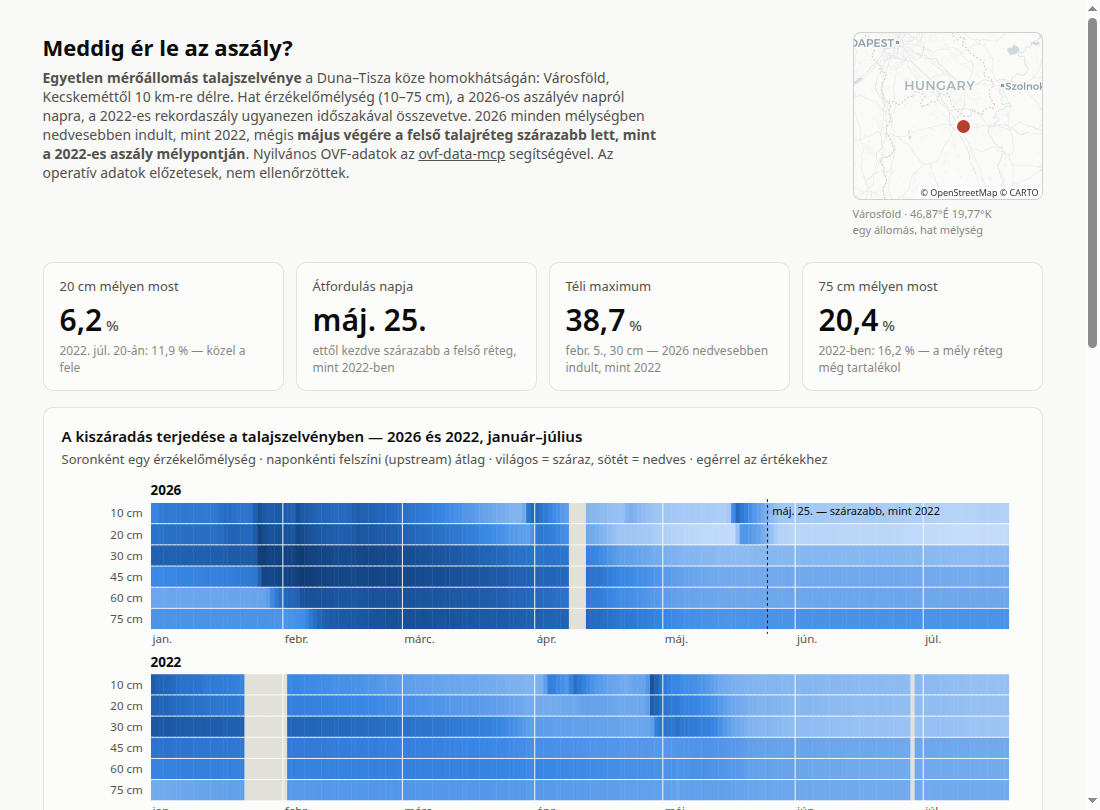
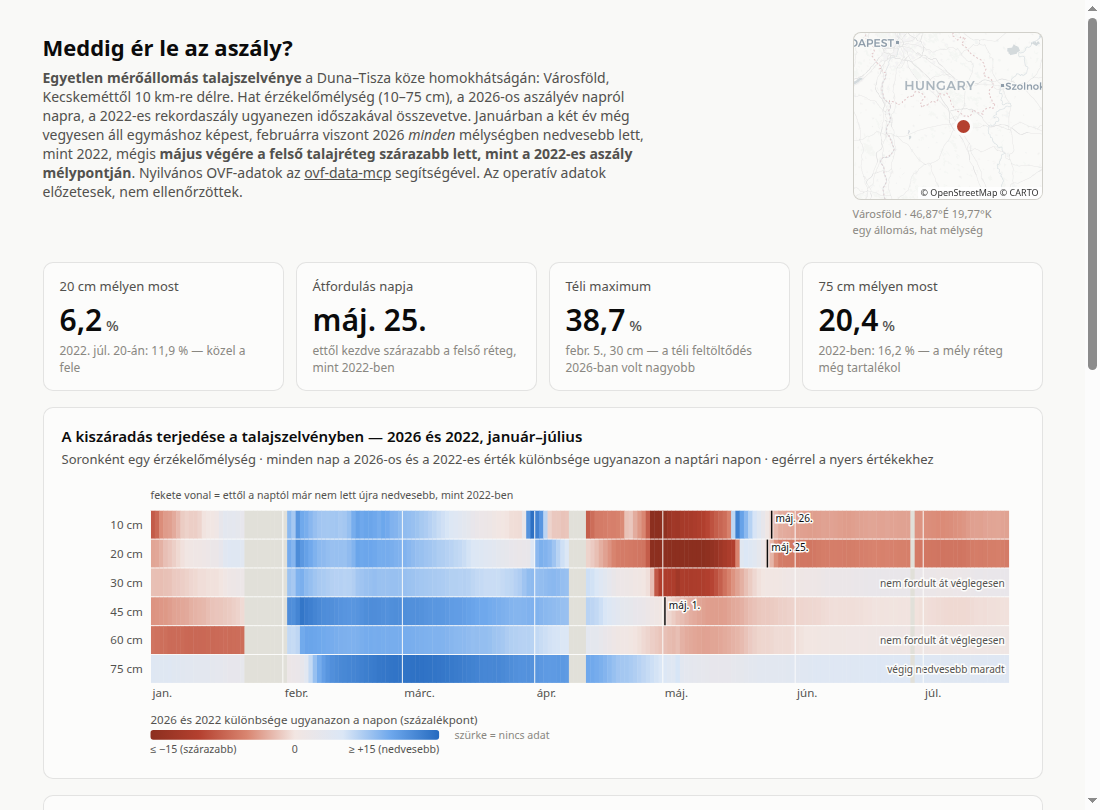
docs: show the drying front as a year-over-year difference
The heatmap was titled "a kiszáradás terjedése a talajszelvényben" but plotted
absolute moisture on one 5-40% scale shared by all six depths. Deep layers barely
move within that range — 75 cm spans 3.7 pp across 2022 — so they rendered as
flat colour and the downward-spreading front, the thing the title promises, was
exactly what the encoding erased.

Each cell is now the 2026 minus 2022 difference for the same calendar day at the
same depth, on a diverging scale. The front is readable: 10 cm turns red in early
April, 20 cm on 13 April, 30 cm on 27 April, while 75 cm stays wetter throughout.
This also removes a comparison the data cannot support, since absolute
percentages are not comparable between depths without wilting point and field
capacity, which are null upstream.

Fixes two factual errors in the process. The header claimed 2026 started wetter
at every depth; on 1 January it was drier at five of six, and only February is
uniformly wetter. The winter-maximum tile repeated the same claim. The "máj. 25."
crossover checked out and is unchanged: it is the last day 20 cm returns to
wetter than 2022.

diff --git a/docs/examples/varosfold-soil-drought.html b/docs/examples/varosfold-soil-drought.html
@@ -79,7 +79,8 @@
         <p><strong>Egyetlen mérőállomás talajszelvénye</strong> a Duna–Tisza köze
            homokhátságán: Városföld, Kecskeméttől 10 km-re délre. Hat érzékelőmélység
            (10–75 cm), a 2026-os aszályév napról napra, a 2022-es rekordaszály ugyanezen
-           időszakával összevetve. 2026 minden mélységben nedvesebben indult, mint 2022,
+           időszakával összevetve. Januárban a két év még vegyesen áll egymáshoz képest,
+           februárra viszont 2026 <em>minden</em> mélységben nedvesebb lett, mint 2022,
            mégis <strong>május végére a felső talajréteg szárazabb lett, mint a 2022-es
            aszály mélypontján</strong>. Nyilvános OVF-adatok az
            <a href="https://github.com/kalcifield/ovf-data-mcp">ovf-data-mcp</a>
@@ -107,7 +108,7 @@
     <div class="tile">
       <div class="label">Téli maximum</div>
       <div class="value">38,7<small> %</small></div>
-      <div class="sub">febr. 5., 30 cm — 2026 nedvesebben indult, mint 2022</div>
+      <div class="sub">febr. 5., 30 cm — a téli feltöltődés 2026-ban volt nagyobb</div>
     </div>
     <div class="tile">
       <div class="label">75 cm mélyen most</div>
@@ -118,10 +119,10 @@
 
   <div class="card">
     <h2>A kiszáradás terjedése a talajszelvényben — 2026 és 2022, január–július</h2>
-    <p class="sub">Soronként egy érzékelőmélység · naponkénti felszíni (upstream) átlag ·
-       világos = száraz, sötét = nedves · egérrel az értékekhez</p>
+    <p class="sub">Soronként egy érzékelőmélység · minden nap a 2026-os és a 2022-es érték
+       különbsége ugyanazon a naptári napon · egérrel a nyers értékekhez</p>
     <svg id="heat" tabindex="0" role="img"
-         aria-label="Két hőtérkép egymás alatt: a 2026-os és a 2022-es év január–júliusi talajnedvessége hat mélységben a városföldi állomáson. 2026 telén minden réteg sötét, azaz nedves, majd május végétől a felső rétegek világosabbra, azaz szárazabbra váltanak, mint 2022 ugyanezen napjain. A teljes adatsor az alábbi táblázatban található."></svg>
+         aria-label="Hőtérkép: soronként egy érzékelőmélység 10 és 75 cm között, oszloponként egy nap január és július között. A szín a 2026-os és a 2022-es talajnedvesség különbsége ugyanazon a napon: vörös azt jelenti, hogy 2026 szárazabb volt, kék azt, hogy nedvesebb. A felső rétegek áprilistól fordulnak vörösbe, 20 cm-en május 25-től már nem tér vissza a nedvesebb állapot, a 75 cm-es réteg viszont végig nedvesebb marad 2022-nél. A teljes adatsor az alábbi táblázatban található."></svg>
     <div class="tooltip" id="heattip"></div>
   </div>
 
@@ -211,13 +212,13 @@ for (const yr of ["2026", "2022"]) {
 const fmt = v => v == null ? "—" : v.toLocaleString("hu-HU", { minimumFractionDigits: 1, maximumFractionDigits: 1 });
 const mdLabel = md => { const [m, d] = md.split("-").map(Number); return MONTH_NAMES[m - 1] + " " + d + "."; };
 
-// szekvenciális kék skála (világos = száraz, sötét = nedves), 5–40 %
-const RAMP = ["#cde2fb", "#9ec5f4", "#6da7ec", "#3987e5", "#256abf", "#184f95", "#0d366b"];
-const DOM = [5, 40];
-function rampColor(v) {
-  const t = Math.max(0, Math.min(1, (v - DOM[0]) / (DOM[1] - DOM[0])));
-  const x = t * (RAMP.length - 1), i = Math.min(RAMP.length - 2, Math.floor(x)), f = x - i;
-  const c1 = RAMP[i], c2 = RAMP[i + 1];
+// divergens skála: vörös = 2026 szárazabb, kék = nedvesebb, mint 2022 ugyanaznap
+const DIV_RAMP = ["#8c2f1f", "#b4402f", "#d98570", "#f2e6e2", "#dbe7f6", "#6da7ec", "#256abf"];
+const DDOM = 15;  // ±15 pp; a szélsőértékek (−22 pp) levágva, hogy a közép ne mosódjon el
+function diffColor(v) {
+  const t = Math.max(0, Math.min(1, (v + DDOM) / (2 * DDOM)));
+  const x = t * (DIV_RAMP.length - 1), i = Math.min(DIV_RAMP.length - 2, Math.floor(x)), f = x - i;
+  const c1 = DIV_RAMP[i], c2 = DIV_RAMP[i + 1];
   const hx = (c, k) => parseInt(c.slice(1 + 2 * k, 3 + 2 * k), 16);
   const ch = k => Math.round(hx(c1, k) + (hx(c2, k) - hx(c1, k)) * f);
   return "rgb(" + ch(0) + "," + ch(1) + "," + ch(2) + ")";
@@ -238,66 +239,96 @@ function txt(parent, x, y, s, attrs) {
 const monthStarts = [];
 { let acc = 0; for (let m = 0; m < 7; m++) { monthStarts.push(acc); acc += MONTH_DAYS[m]; } }
 
-// ---- hőtérkép ----
+// ---- hőtérkép: 2026 mínusz 2022, mélységenként ----
+// Abszolút nedvességet nem lehet mélységek között összevetni (más talaj, más
+// kalibráció, és nincs hervadáspont/vízkapacitás adat a normalizáláshoz), ezért minden
+// sor csak önmagával, a 2022-es aszály ugyanazon napjával van összemérve.
 const CROSS_MD = "05-25";
+const DIFF = DEPTHS.map((dep, r) => {
+  const row = new Array(N).fill(null);
+  for (let i = 0; i < N; i++) {
+    const a = grid["2026"][r][i], b = grid["2022"][r][i];
+    if (a != null && b != null) row[i] = a - b;
+  }
+  return row;
+});
+// Az a nap, ami után már egyetlen nap sem nedvesebb 2022-nél (— ha nincs ilyen).
+const FINAL = DIFF.map(row => {
+  for (let i = 0; i < N; i++) {
+    if (row[i] == null) continue;
+    let ok = true;
+    for (let j = i; j < N; j++) if (row[j] != null && row[j] >= 0) { ok = false; break; }
+    if (ok) return i;
+  }
+  return null;
+});
 (function heatmap() {
-  const W = 1000, ML = 92, MR = 16, rowH = 22, blockGap = 46, top = 26, legendH = 56;
+  const W = 1000, ML = 92, MR = 16, rowH = 30, top = 34, legendH = 58;
   const iw = W - ML - MR, cw = iw / N;
   const blockH = DEPTHS.length * rowH;
-  const H = top + 2 * blockH + blockGap + 30 + legendH;
+  const H = top + blockH + 30 + legendH;
   const svg = document.getElementById("heat");
   svg.setAttribute("viewBox", "0 0 " + W + " " + H);
 
-  const blocks = [["2026", top], ["2022", top + blockH + blockGap]];
-  for (const [yr, y0] of blocks) {
-    txt(svg, ML, y0 - 8, yr, { "font-weight": 650, "font-size": 14, fill: "var(--text-primary)" });
-    DEPTHS.forEach((dep, r) => {
-      txt(svg, ML - 8, y0 + r * rowH + rowH / 2 + 4, dep + " cm", { "text-anchor": "end" });
-      const row = grid[yr][r];
-      for (let i = 0; i < N; i++) {
-        el(svg, "rect", {
-          x: ML + i * cw, y: y0 + r * rowH, width: cw + 0.5, height: rowH - 1,
-          fill: row[i] == null ? "var(--grid)" : rampColor(row[i]),
-          "data-yr": yr, "data-r": r, "data-i": i
-        });
-      }
-    });
-    // hónap-tengely a blokk alatt
-    for (let m = 0; m < 7; m++) {
-      const x = ML + monthStarts[m] * cw;
-      el(svg, "line", { x1: x, y1: y0, x2: x, y2: y0 + blockH, stroke: "var(--surface-1)", "stroke-width": 1 });
-      txt(svg, x + 2, y0 + blockH + 14, MONTH_NAMES[m]);
+  DEPTHS.forEach((dep, r) => {
+    txt(svg, ML - 8, top + r * rowH + rowH / 2 + 4, dep + " cm", { "text-anchor": "end" });
+    for (let i = 0; i < N; i++) {
+      el(svg, "rect", {
+        x: ML + i * cw, y: top + r * rowH, width: cw + 0.5, height: rowH - 1,
+        fill: DIFF[r][i] == null ? "var(--grid)" : diffColor(DIFF[r][i]),
+        "data-r": r, "data-i": i
+      });
     }
+    // mélységenkénti végleges átfordulás
+    if (FINAL[r] != null) {
+      const fx = ML + (FINAL[r] + 0.5) * cw;
+      el(svg, "line", { x1: fx, y1: top + r * rowH, x2: fx, y2: top + (r + 1) * rowH - 1,
+                        stroke: "var(--text-primary)", "stroke-width": 1.5 });
+      txt(svg, fx + 4, top + r * rowH + 12, mdLabel(MDS[FINAL[r]]),
+          { "font-size": 10.5, fill: "var(--text-primary)", stroke: "#fcfcfb",
+            "stroke-width": 3, "paint-order": "stroke" });
+    } else {
+      // FINAL == null csak annyit jelent, hogy nincs végleges átfordulás; attól még
+      // lehetett a réteg időszakosan szárazabb, mint 2022-ben.
+      const alwaysWetter = DIFF[r].every(v => v == null || v > 0);
+      txt(svg, ML + iw - 4, top + r * rowH + rowH / 2 + 4,
+          alwaysWetter ? "végig nedvesebb maradt" : "nem fordult át véglegesen",
+          { "text-anchor": "end", "font-size": 10.5, fill: "var(--text-secondary)",
+            stroke: "#fcfcfb", "stroke-width": 3, "paint-order": "stroke" });
+    }
+  });
+  for (let m = 0; m < 7; m++) {
+    const x = ML + monthStarts[m] * cw;
+    el(svg, "line", { x1: x, y1: top, x2: x, y2: top + blockH, stroke: "var(--surface-1)", "stroke-width": 1 });
+    txt(svg, x + 2, top + blockH + 14, MONTH_NAMES[m]);
   }
-  // átfordulás-jelölő a 2026-os blokkon
-  const cx = ML + (IDX.get(CROSS_MD) + 0.5) * (iw / N);
-  el(svg, "line", { x1: cx, y1: top - 4, x2: cx, y2: top + blockH + 4, stroke: "var(--text-primary)", "stroke-width": 1, "stroke-dasharray": "3 3" });
-  txt(svg, cx + 5, top + 12, "máj. 25. — szárazabb, mint 2022", { "font-size": 11.5, fill: "var(--text-primary)" });
+  txt(svg, ML, top - 12, "fekete vonal = ettől a naptól már nem lett újra nedvesebb, mint 2022-ben",
+      { "font-size": 11, fill: "var(--text-secondary)" });
 
-  // színskála-jelmagyarázat
-  const ly = H - legendH + 18, lw = 260;
+  // divergens jelmagyarázat
+  const ly = H - legendH + 18, lw = 300;
   const defs = el(svg, "defs", {});
-  const grad = el(defs, "linearGradient", { id: "ramp", x1: 0, y1: 0, x2: 1, y2: 0 });
-  RAMP.forEach((c, i) => el(grad, "stop", { offset: (i / (RAMP.length - 1) * 100) + "%", "stop-color": c }));
-  el(svg, "rect", { x: ML, y: ly, width: lw, height: 10, rx: 3, fill: "url(#ramp)" });
-  txt(svg, ML, ly - 6, "napi átlagos talajnedvesség (%)");
-  txt(svg, ML, ly + 24, "≤ " + DOM[0], { "font-size": 11 });
-  txt(svg, ML + lw, ly + 24, "≥ " + DOM[1], { "text-anchor": "end", "font-size": 11 });
+  const grad = el(defs, "linearGradient", { id: "dramp", x1: 0, y1: 0, x2: 1, y2: 0 });
+  DIV_RAMP.forEach((c, i) => el(grad, "stop", { offset: (i / (DIV_RAMP.length - 1) * 100) + "%", "stop-color": c }));
+  el(svg, "rect", { x: ML, y: ly, width: lw, height: 10, rx: 3, fill: "url(#dramp)" });
+  txt(svg, ML, ly - 6, "2026 és 2022 különbsége ugyanazon a napon (százalékpont)");
+  txt(svg, ML, ly + 24, "≤ −" + DDOM + " (szárazabb)", { "font-size": 11 });
+  txt(svg, ML + lw / 2, ly + 24, "0", { "text-anchor": "middle", "font-size": 11 });
+  txt(svg, ML + lw, ly + 24, "≥ +" + DDOM + " (nedvesebb)", { "text-anchor": "end", "font-size": 11 });
   txt(svg, ML + lw + 16, ly + 9, "szürke = nincs adat", { "font-size": 11, fill: "var(--text-muted)" });
 
-  // tooltip
   const tip = document.getElementById("heattip");
   svg.addEventListener("pointermove", ev => {
     const t = ev.target;
     if (!(t instanceof SVGRectElement) || t.dataset.i === undefined) { tip.style.display = "none"; return; }
-    const yr = t.dataset.yr, r = +t.dataset.r, i = +t.dataset.i;
-    const other = yr === "2026" ? "2022" : "2026";
+    const r = +t.dataset.r, i = +t.dataset.i, d = DIFF[r][i];
     tip.innerHTML =
-      '<div class="date">' + yr + ". " + mdLabel(MDS[i]) + " · " + DEPTHS[r] + " cm</div>" +
-      '<div class="row"><span class="key' + (yr === "2022" ? " ref" : "") + '"></span><span class="name">' + yr + '</span><span class="val">' + fmt(grid[yr][r][i]) + ' %</span></div>' +
-      '<div class="row"><span class="key' + (other === "2022" ? " ref" : "") + '"></span><span class="name">' + other + ' ugyanekkor</span><span class="val">' + fmt(grid[other][r][i]) + ' %</span></div>';
+      '<div class="date">' + mdLabel(MDS[i]) + " · " + DEPTHS[r] + " cm</div>" +
+      '<div class="row"><span class="key"></span><span class="name">2026</span><span class="val">' + fmt(grid["2026"][r][i]) + ' %</span></div>' +
+      '<div class="row"><span class="key ref"></span><span class="name">2022</span><span class="val">' + fmt(grid["2022"][r][i]) + ' %</span></div>' +
+      '<div class="row"><span class="name">különbség</span><span class="val">' + (d == null ? "—" : (d > 0 ? "+" : "") + fmt(d) + " pp") + '</span></div>';
     tip.style.display = "block";
-    const box = svg.getBoundingClientRect(), card = svg.parentElement.getBoundingClientRect();
+    const card = svg.parentElement.getBoundingClientRect();
     tip.style.left = Math.min(ev.clientX - card.left + 14, card.width - tip.offsetWidth - 8) + "px";
     tip.style.top = (ev.clientY - card.top - tip.offsetHeight - 12) + "px";
   });